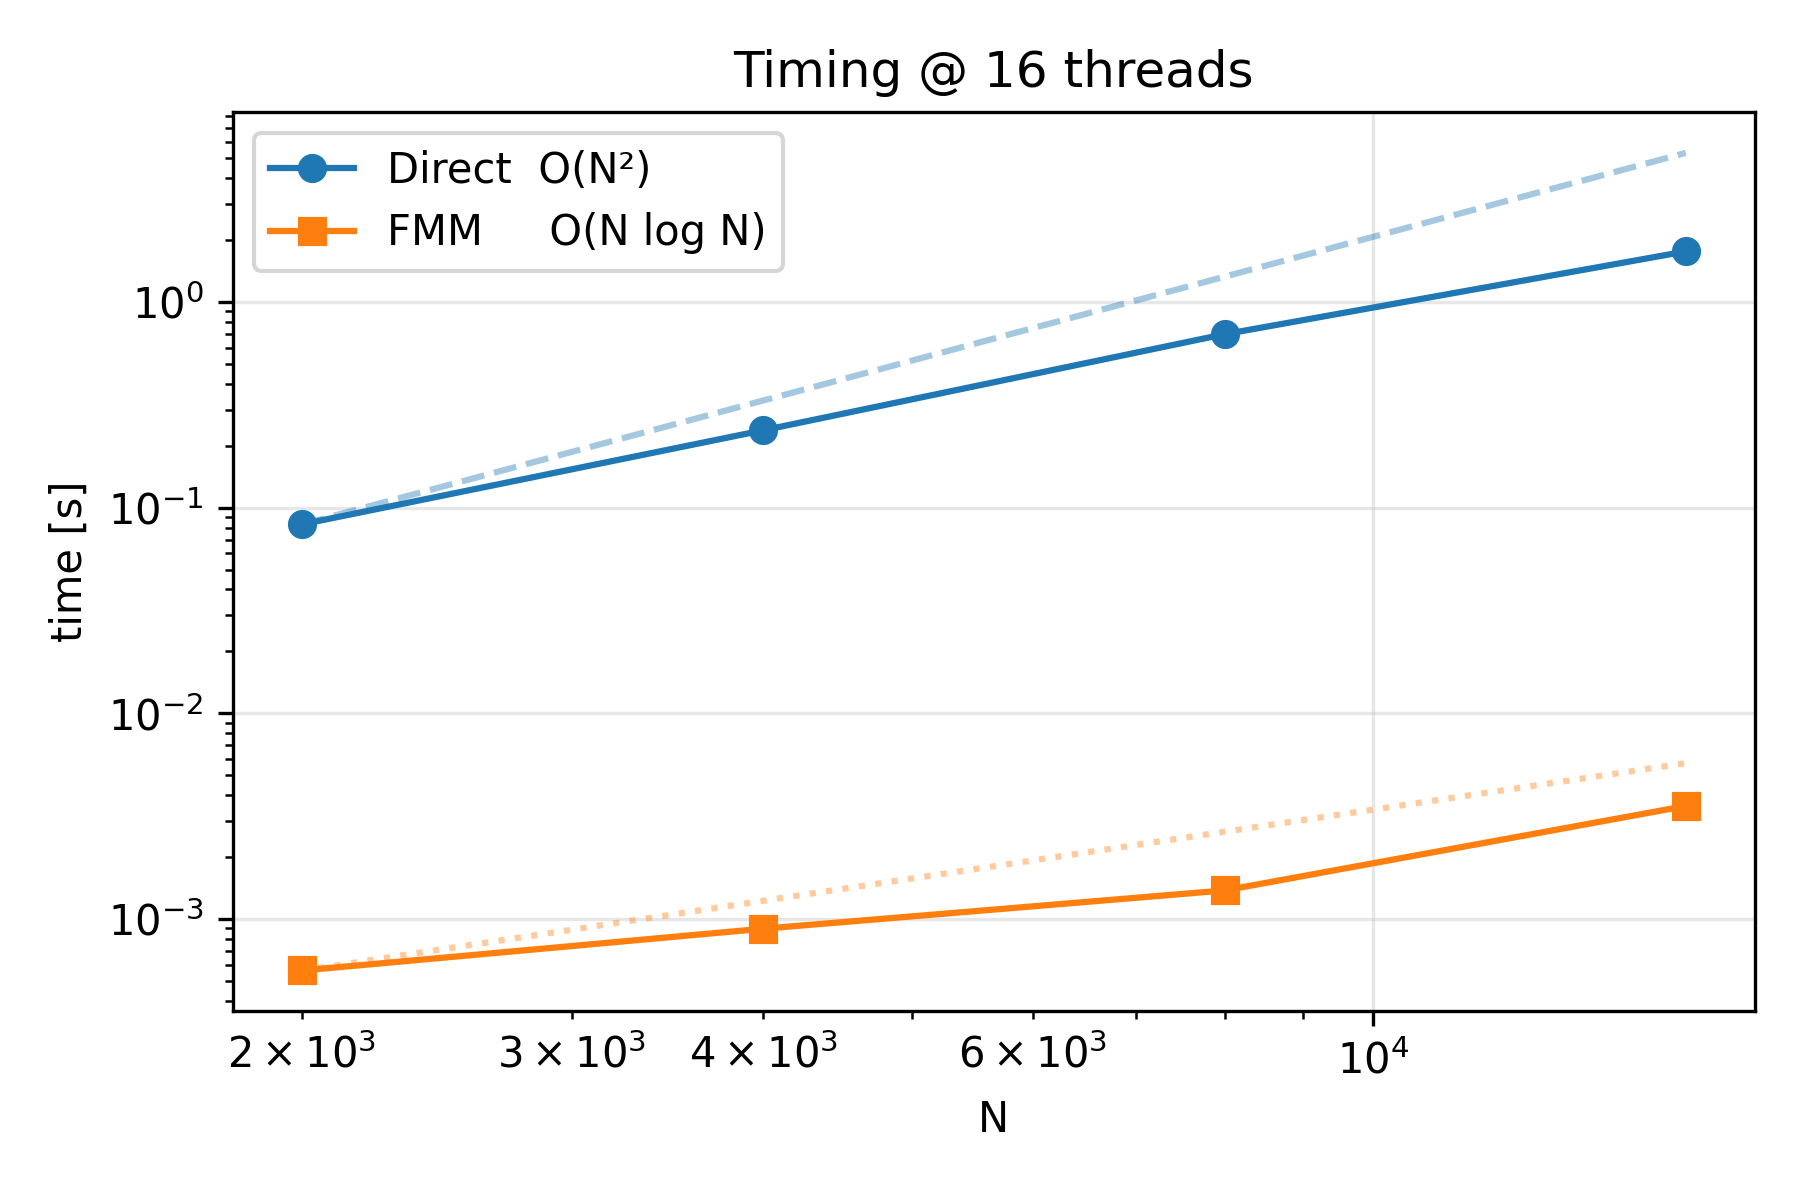
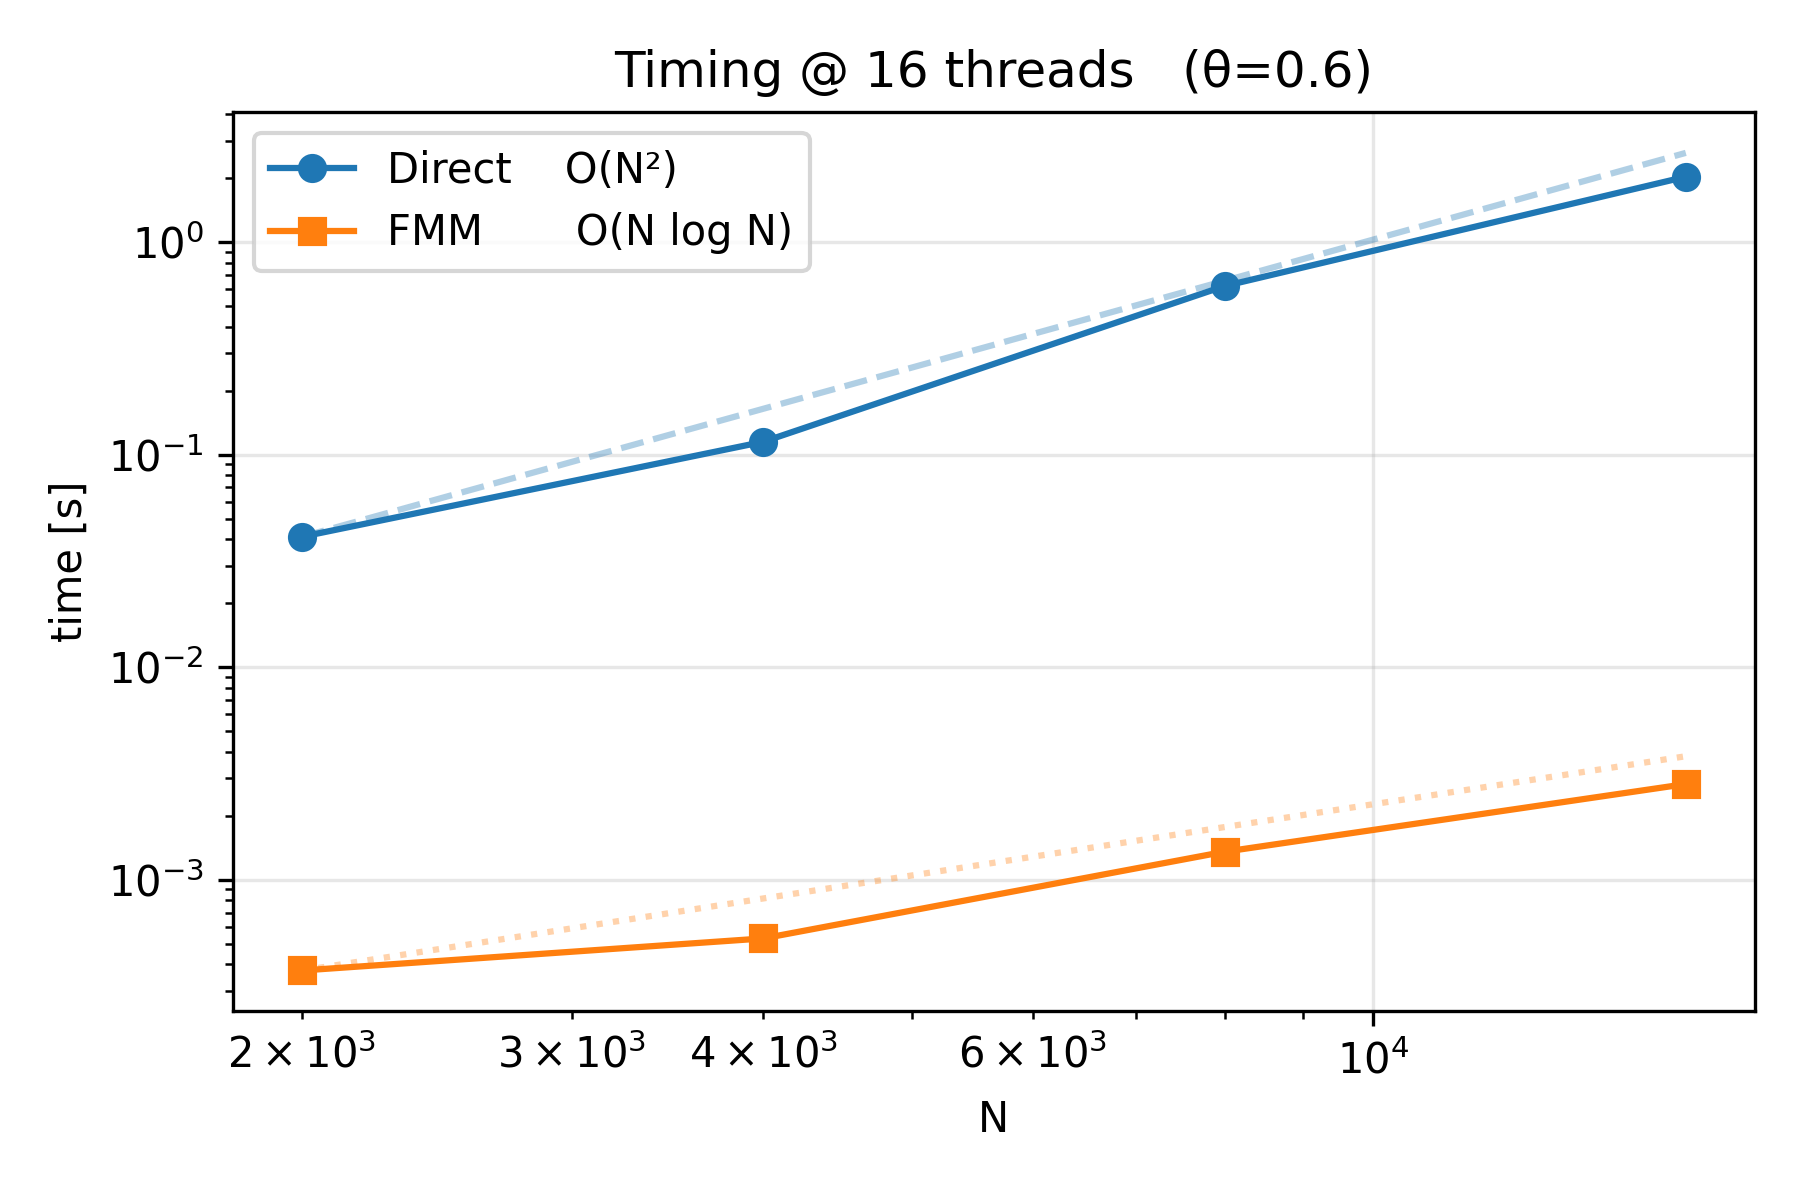
rev7

diff --git a/code/fmm_openmp_fixed/benchmark_fmm.py b/code/fmm_openmp_fixed/benchmark_fmm.py
@@ -1,40 +1,51 @@
-# benchmark_fmm.py — OpenMP & algorithmic performance analysis (REV-3)
-# ====================================================================
-# Produces four figures in ./results_bench_rev3/
-#   size_vs_time.png, size_vs_speedup.png, thread_scaling.png,
-#   theta_tradeoff.png
-# Usage:
-#   python benchmark_fmm.py
-#   python benchmark_fmm.py --sizes 2e3 4e3 8e3 1.6e4
-#                           --threads 1 2 4 8 16
-#                           --theta 0.3 0.5 0.7 1.0
-# --------------------------------------------------------------------
+#!/usr/bin/env python3
+"""benchmark_fmm.py — OpenMP & algorithmic performance analysis  (REV‑4)
+===========================================================================
+*   Size sweep  (Direct vs. Barnes–Hut FMM)                          – N‑scaling
+*   Thread scaling                                                   – OpenMP
+*   Opening‑angle trade‑off                                          – accuracy v.s. runtime
+*   NEW:  writes a TSV table   speedup_vs_size.tsv   (N  speed‑up) and
+*         explicitly plots N‑versus‑speed‑up using the programmable θ.
+
+Usage examples
+--------------
+$ python benchmark_fmm.py                                 # default settings
+$ python benchmark_fmm.py --sizes 2e3 4e3 8e3 1.6e4       \
+                         --threads 1 2 4 8 16            \
+                         --theta_base 0.6                \
+                         --theta 0.3 0.5 0.7 1.0
+"""
 from __future__ import annotations
 import os, time, math, argparse, pathlib, sys
+from typing import Sequence
 import numpy as np
 import matplotlib.pyplot as plt
 
 try:
-    import fmm_openmp as fm               # compiled C++ kernels
+    import fmm_openmp as fm                       # compiled C++ kernels
 except ImportError:
     sys.exit("fmm_openmp module not found – compile fmm_openmp.cpp first!")
 
-OUT = pathlib.Path("results_bench_rev6")
+# ---------------------------------------------------------------------------
+OUT = pathlib.Path("results_bench_rev6")   # folder for all figures / tables
 OUT.mkdir(exist_ok=True)
 _rng = np.random.default_rng(42)
 
-
+# ---------------------------------------------------------------------------
+# utilities
+# ---------------------------------------------------------------------------
 def random_system(N: int, domain: float = 50.0):
+    """Return random positions (x, y) and unit masses inside a square box."""
     x = _rng.uniform(-domain, domain, N).astype(np.float64)
     y = _rng.uniform(-domain, domain, N).astype(np.float64)
     m = np.ones(N, dtype=np.float64)
     return x, y, m
 
+# ---------------------------------------------------------------------------
+# 1) N‑scaling – Direct versus FMM
+# ---------------------------------------------------------------------------
 
-# --------------------------------------------------------------------
-# 1) size sweep – Direct vs FMM
-# --------------------------------------------------------------------
-def run_size_sweep(Ns, threads: int, eps2: float, domain: float):
+def run_size_sweep(Ns: Sequence[int], threads: int, eps2: float, domain: float, theta: float):
     os.environ["OMP_NUM_THREADS"] = str(threads)
     direct_t, fmm_t = [], []
 
@@ -42,50 +53,62 @@ def run_size_sweep(Ns, threads: int, eps2: float, domain: float):
         x, y, m = random_system(N)
         ax = np.zeros(N); ay = np.zeros(N)
 
+        # --- reference O(N^2)
         t0 = time.perf_counter(); fm.direct_force(x, y, m, eps2, ax, ay)
         direct_t.append(time.perf_counter() - t0)
 
-        t0 = time.perf_counter(); fm.fmm_force(x, y, m, eps2, domain, ax, ay)
+        # --- Barnes–Hut / FMM  O(N log N)
+        t0 = time.perf_counter(); fm.fmm_force_theta(x, y, m, eps2, domain, theta, ax, ay)
         fmm_t.append(time.perf_counter() - t0)
 
         print(f"N={N:6d}  direct={direct_t[-1]:.4g}s  fmm={fmm_t[-1]:.4g}s  "
-              f"speed-up={direct_t[-1]/fmm_t[-1]:.2f}")
+              f"speed‑up={direct_t[-1]/fmm_t[-1]:.2f}")
 
+    # --- theoretical reference lines --------------------------------------------------
     N0 = Ns[0]
     th_n2 = [direct_t[0] * (N / N0) ** 2 for N in Ns]
     th_nl = [fmm_t[0]    * (N / N0) * math.log2(N) / math.log2(N0) for N in Ns]
 
     plt.figure(figsize=(6, 4))
-    plt.loglog(Ns, direct_t, 'o-', label='Direct  O(N²)')
-    plt.loglog(Ns, fmm_t,    's-', label='FMM     O(N log N)')
-    plt.loglog(Ns, th_n2, '--', color='C0', alpha=0.4)
-    plt.loglog(Ns, th_nl, ':',  color='C1', alpha=0.4)
-    plt.title(f'Timing @ {threads} threads')
+    plt.loglog(Ns, direct_t, 'o-', label='Direct    O(N²)')
+    plt.loglog(Ns, fmm_t,    's-', label='FMM       O(N log N)')
+    plt.loglog(Ns, th_n2, '--', color='C0', alpha=0.35)
+    plt.loglog(Ns, th_nl, ':',  color='C1', alpha=0.35)
+    plt.title(f'Timing @ {threads} threads   (θ={theta})')
     plt.xlabel('N'); plt.ylabel('time [s]'); plt.grid(alpha=0.3); plt.legend()
     plt.tight_layout(); plt.savefig(OUT / 'size_vs_time.png', dpi=300); plt.close()
 
+    # --- speed‑up plot --------------------------------------------------------------
+    speedups = np.array(direct_t) / np.array(fmm_t)
     plt.figure(figsize=(6, 4))
-    plt.loglog(Ns, np.array(direct_t) / np.array(fmm_t), 'o-')
-    plt.xlabel('N'); plt.ylabel('Direct / FMM'); plt.title('Algorithmic speed-up')
+    plt.loglog(Ns, speedups, 'o-')
+    plt.xlabel('N'); plt.ylabel('Direct / FMM')
+    plt.title('Algorithmic speed‑up')
     plt.grid(alpha=0.3); plt.tight_layout()
     plt.savefig(OUT / 'size_vs_speedup.png', dpi=300); plt.close()
 
+    # --- save table (TSV) ------------------------------------------------------------
+    with open(OUT / 'speedup_vs_size.tsv', 'w') as fp:
+        fp.write('# N\tspeed‑up (Direct/FMM)\n')
+        for N, S in zip(Ns, speedups):
+            fp.write(f"{N}\t{S:.6f}\n")
 
-# --------------------------------------------------------------------
-# 2) thread scaling – both solvers
-# --------------------------------------------------------------------
-def run_scaling(N: int, thread_list, eps2: float, domain: float):
+# ---------------------------------------------------------------------------
+# 2) thread scaling – both kernels
+# ---------------------------------------------------------------------------
+
+def run_scaling(N: int, thread_list: Sequence[int], eps2: float, domain: float, theta: float):
     x, y, m = random_system(N)
     ax = np.zeros(N); ay = np.zeros(N)
 
     d_times, f_times = [], []
     for t in thread_list:
-        os.environ['OMP_NUM_THREADS'] = str(t); time.sleep(0.05)
+        os.environ['OMP_NUM_THREADS'] = str(t); time.sleep(0.05)  # delay helps scheduler settle
 
         t0 = time.perf_counter(); fm.direct_force(x, y, m, eps2, ax, ay)
         d_times.append(time.perf_counter() - t0)
 
-        t0 = time.perf_counter(); fm.fmm_force(x, y, m, eps2, domain, ax, ay)
+        t0 = time.perf_counter(); fm.fmm_force_theta(x, y, m, eps2, domain, theta, ax, ay)
         f_times.append(time.perf_counter() - t0)
 
         print(f" {t:3d} thr  direct={d_times[-1]:.6f}s  fmm={f_times[-1]:.6f}s")
@@ -96,24 +119,24 @@ def run_scaling(N: int, thread_list, eps2: float, domain: float):
     fig, ax1 = plt.subplots(figsize=(6.4, 4.2))
     ax1.plot(thread_list, d_times, 'o-', label='Direct time')
     ax1.plot(thread_list, f_times, 's-', label='FMM time')
-    ax1.set_xlabel('#threads'); ax1.set_ylabel('wall-time [s]'); ax1.grid(alpha=0.3)
+    ax1.set_xlabel('#threads'); ax1.set_ylabel('wall‑time [s]'); ax1.grid(alpha=0.3)
 
     ax2 = ax1.twinx()
-    ax2.plot(thread_list, speed_d, 'o--', color='C0', label='Direct speed-up')
-    ax2.plot(thread_list, speed_f, 's--', color='C1', label='FMM speed-up')
-    ax2.set_ylabel('speed-up')
+    ax2.plot(thread_list, speed_d, 'o--', color='C0', label='Direct speed‑up')
+    ax2.plot(thread_list, speed_f, 's--', color='C1', label='FMM speed‑up')
+    ax2.set_ylabel('speed‑up')
 
     lines = ax1.get_lines() + ax2.get_lines()
     ax1.legend(lines, [l.get_label() for l in lines], fontsize=8)
 
-    plt.title(f'Thread scaling  N={N}')
+    plt.title(f'Thread scaling   N={N}   (θ={theta})')
     plt.tight_layout(); plt.savefig(OUT / 'thread_scaling.png', dpi=300); plt.close()
 
+# ---------------------------------------------------------------------------
+# 3) θ trade‑off – L² error *vs.* runtime  (calls kernel with explicit θ)
+# ---------------------------------------------------------------------------
 
-# --------------------------------------------------------------------
-# 3) θ trade-off – L² error (θ still hard-wired in C++)
-# --------------------------------------------------------------------
-def run_theta(N: int, thetas, eps2: float, domain: float):
+def run_theta(N: int, thetas: Sequence[float], eps2: float, domain: float):
     x, y, m = random_system(N)
     ax = np.zeros(N); ay = np.zeros(N)
 
@@ -123,41 +146,49 @@ def run_theta(N: int, thetas, eps2: float, domain: float):
     errs, times = [], []
     for th in thetas:
         t0 = time.perf_counter()
-        fm.fmm_force(x, y, m, eps2, domain, ax, ay)   # θ ignored inside C++
+        fm.fmm_force_theta(x, y, m, eps2, domain, th, ax, ay)
         times.append(time.perf_counter() - t0)
 
         a_fmm = np.vstack((ax, ay)).T
         err = np.linalg.norm(a_fmm - a_ref) / max(np.linalg.norm(a_ref), 1e-12)
         errs.append(err)
-        print(f" θ={th:.2f}  t={times[-1]:.3e}s  L2-err={err:.2e}")
+        print(f" θ={th:.2f}  t={times[-1]:.3e}s  L2‑err={err:.2e}")
 
     fig, (a1, a2) = plt.subplots(1, 2, figsize=(9, 4))
     a1.semilogy(thetas, errs, 'o-'); a1.set_xlabel('θ'); a1.set_ylabel('L2 relative error')
     a2.plot(thetas, times, 's-');    a2.set_xlabel('θ'); a2.set_ylabel('time [s]')
-    fig.suptitle(f'Accuracy vs runtime  N={N}')
+    fig.suptitle(f'Accuracy vs runtime   N={N}')
     plt.tight_layout(); plt.savefig(OUT / 'theta_tradeoff.png', dpi=300); plt.close()
 
-
-# --------------------------------------------------------------------
+# ---------------------------------------------------------------------------
+# entry‑point
+# ---------------------------------------------------------------------------
 if __name__ == '__main__':
-    parser = argparse.ArgumentParser(description='Direct vs FMM benchmark')
-    parser.add_argument('--sizes',   type=float, nargs='+',
-                        default=[2e3, 4e3, 8e3, 1.6e4])
-    parser.add_argument('--threads', type=int,   nargs='+',
-                        default=[1, 2, 4, 8, 16])
-    parser.add_argument('--theta',   type=float, nargs='+',
-                        default=[0.3, 0.5, 0.7, 1.0])
-    parser.add_argument('--soft',    type=float, default=0.01)
-    parser.add_argument('--domain',  type=float, default=100.0)
+    parser = argparse.ArgumentParser(description='Direct vs FMM benchmark (OpenMP)')
+    parser.add_argument('--sizes',       type=float, nargs='+',
+                        default=[2e3, 4e3, 8e3, 1.6e4],
+                        help='particle counts for size sweep')
+    parser.add_argument('--threads',     type=int,   nargs='+',
+                        default=[1, 2, 4, 8, 16],
+                        help='thread list for scaling test')
+    parser.add_argument('--theta',       type=float, nargs='+',
+                        default=[0.3, 0.5, 0.7, 1.0],
+                        help='opening angles θ for accuracy / runtime trade‑off')
+    parser.add_argument('--theta_base',  type=float, default=0.6,
+                        help='baseline θ used for size‑sweep & thread‑scaling')
+    parser.add_argument('--soft',        type=float, default=0.01,
+                        help='Plummer softening length (physical units)')
+    parser.add_argument('--domain',      type=float, default=100.0,
+                        help='half‑width of the square simulation domain')
     args = parser.parse_args()
 
     Ns     = [int(s) for s in args.sizes]
     eps2   = args.soft ** 2
     domain = args.domain
 
-    print('\\n=== Size sweep ===');     run_size_sweep(Ns, max(args.threads), eps2, domain)
-    print('\\n=== Thread scaling ==='); run_scaling(Ns[len(Ns)//2], args.threads, eps2, domain)
-    print('\\n=== θ trade-off ===');    run_theta(Ns[1], args.theta, eps2, domain)
+    print('\n=== Size sweep ===');     run_size_sweep(Ns, max(args.threads), eps2, domain, args.theta_base)
+    print('\n=== Thread scaling ==='); run_scaling(Ns[len(Ns)//2], args.threads, eps2, domain, args.theta_base)
+    print('\n=== θ trade‑off ===');    run_theta(Ns[1], args.theta, eps2, domain)
 
-    print('\\nPlots saved to', OUT)
+    print('\nFigures + tables saved to', OUT)
 

diff --git a/code/fmm_openmp_fixed/fmm_openmp.cpp b/code/fmm_openmp_fixed/fmm_openmp.cpp
@@ -210,3 +210,4 @@ PYBIND11_MODULE(fmm_openmp, m)
           "Barnes–Hut FMM kernel with explicit opening angle θ");
 }
 
+

diff --git a/code/fmm_openmp_fixed/force_openmp.cpp b/code/fmm_openmp_fixed/force_openmp.cpp
@@ -61,3 +61,4 @@ PYBIND11_MODULE(force_openmp, m)
           "O(N²) reference kernel with OpenMP parallelism");
 }
 
+

diff --git a/code/fmm_openmp_fixed/setup_openmp.py b/code/fmm_openmp_fixed/setup_openmp.py
@@ -36,3 +36,4 @@ setup(
     python_requires=">=3.7",
 )
 
+
